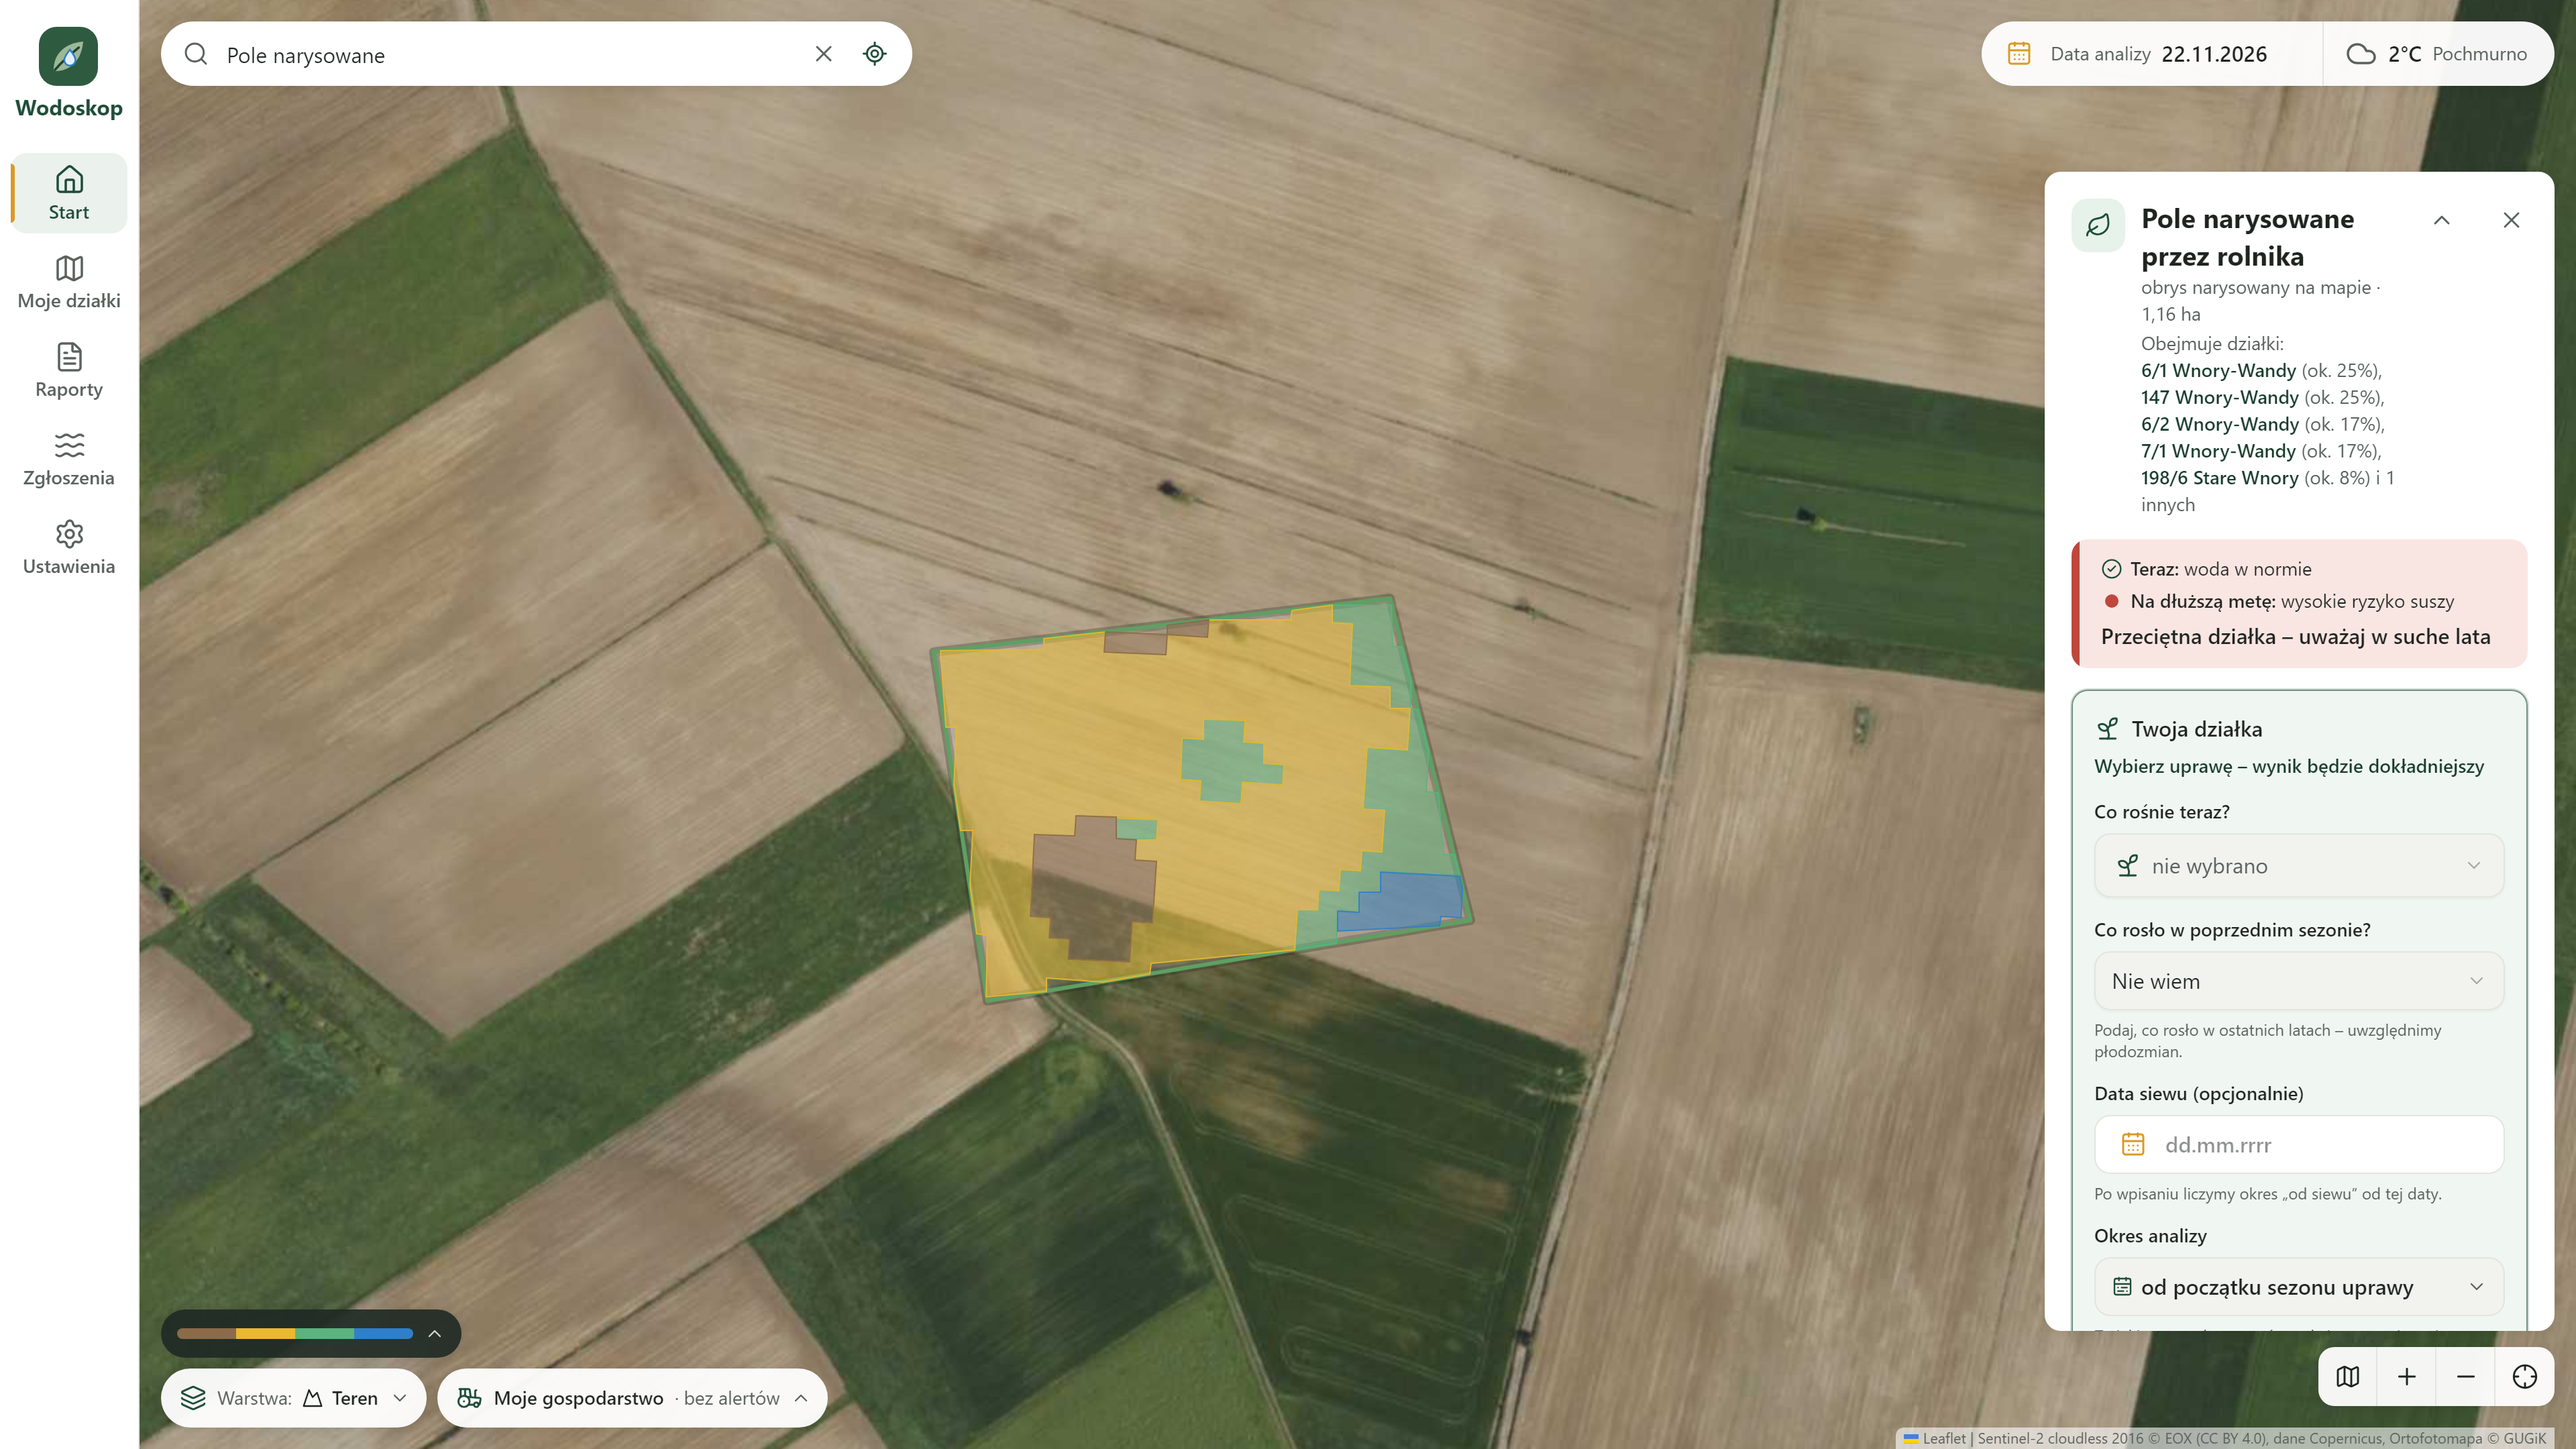
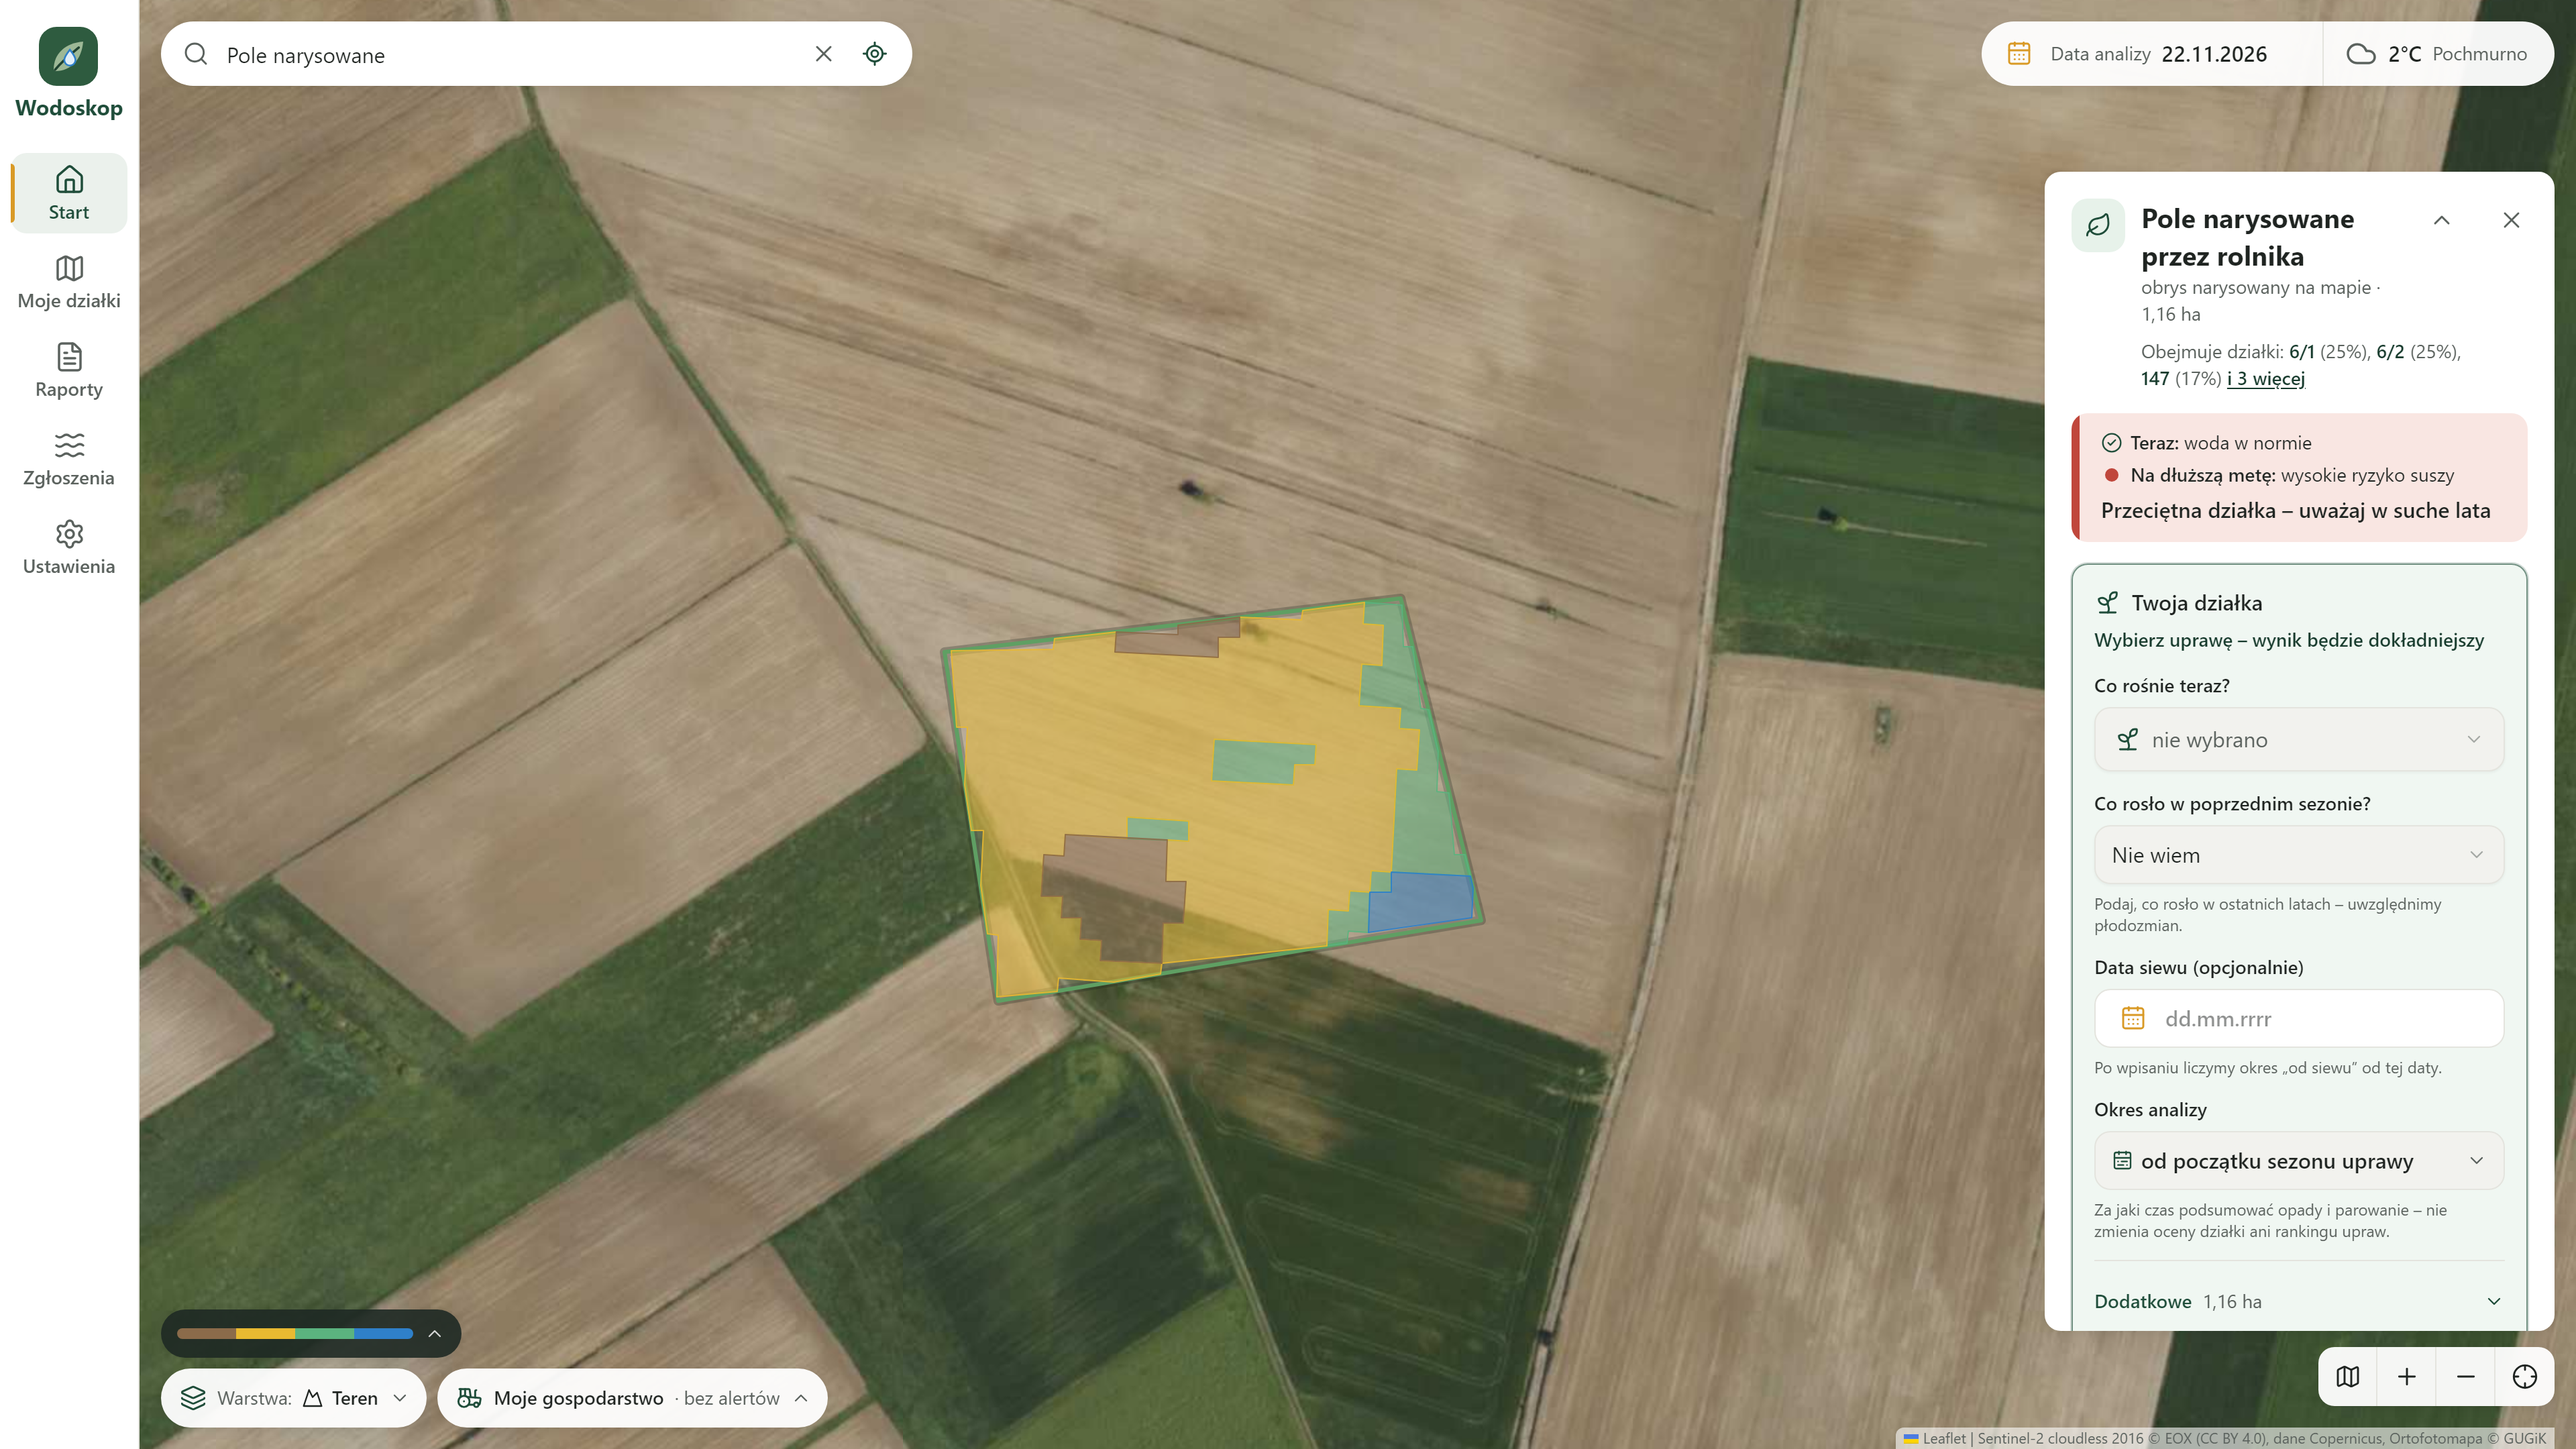
„Obejmuje działki” w panelu na komputerze: 3 pozycje po przecinku (numer i udział) + „i N więcej” rozwijane kliknięciem, pod nagłówkiem na całą szerokość panelu; ponowiony zrzut 11

diff --git a/frontend/src/features/parcel-panel/DrawnParcels.tsx b/frontend/src/features/parcel-panel/DrawnParcels.tsx
@@ -13,8 +13,21 @@ const MAX_SHOWN = 5
  * pod obrysem (POST /api/parcels-in-area, próbkowanie punktami). Zapytanie w tle – nie blokuje analizy ani warstw.
  * Pozycja to link do tej działki (otwiera ją jak wynik wyszukiwarki). Błąd / nota z serwera – szary tekst.
  */
-export function DrawnParcels({ parcel, className }: { parcel: Parcel; className?: string }) {
+export function DrawnParcels({
+  parcel,
+  className,
+  max = MAX_SHOWN,
+  compact,
+}: {
+  parcel: Parcel
+  className?: string
+  /** ile pozycji pokazać od razu; reszta pod „i N więcej” (rozwijane kliknięciem) */
+  max?: number
+  /** wąski panel: krótsze pozycje (sam numer, obręb raz w nagłówku, gdy wspólny) */
+  compact?: boolean
+}) {
   const { t } = useLang()
+  const [open, setOpen] = useState(false)
   const [res, setRes] = useState<{ id: string; data: ParcelsInArea } | null>(() => {
     const c = cache.get(parcel.id)
     return c ? { id: parcel.id, data: c } : null
@@ -44,21 +57,33 @@ export function DrawnParcels({ parcel, className }: { parcel: Parcel; className?
   if (!data) return <p className={className}>{t('sprawdzam działki ewidencyjne…')}</p>
   if (data.note) return <p className={className}>{t(data.note)}</p>
   if (!data.parcels.length) return null
-  const shown = data.parcels.slice(0, MAX_SHOWN)
+  const shown = open ? data.parcels : data.parcels.slice(0, max)
   const rest = data.parcels.length - shown.length
+  // wąski panel (`compact`): sam numer i udział – „6/1 (25%), 6/2 (25%), 147 (17%) i 3 więcej”; obręb w podpowiedzi,
+  // a gdy wszystkie działki są z jednego obrębu – raz w nagłówku
+  const oneRegion = compact && data.parcels.every((p) => p.obreb === data.parcels[0].obreb)
   return (
     <p className={className}>
-      {t('Obejmuje działki:')}{' '}
+      {oneRegion ? t('Obejmuje działki ({obreb}):', { obreb: data.parcels[0].obreb }) : t('Obejmuje działki:')}{' '}
       {shown.map((p, i) => (
         <span key={p.id}>
           {i > 0 && ', '}
-          <a href={startLink({ dzialka: p.id })} className="font-medium whitespace-nowrap text-brand-dark underline-offset-2 hover:underline">
-            {p.numer} {p.obreb}
-          </a>{' '}
-          <span className="whitespace-nowrap">({t('ok. {n}%', { n: p.share })})</span>
+          <span className="whitespace-nowrap">
+            <a href={startLink({ dzialka: p.id })} title={`${p.numer} ${p.obreb}`} className="font-medium text-brand-dark underline-offset-2 hover:underline">
+              {compact ? p.numer : `${p.numer} ${p.obreb}`}
+            </a>{' '}
+            ({compact ? `${p.share}%` : t('ok. {n}%', { n: p.share })})
+          </span>
         </span>
       ))}
-      {rest > 0 && ` ${t('i {n} innych', { n: rest })}`}
+      {(rest > 0 || open) && data.parcels.length > max && (
+        <>
+          {' '}
+          <button type="button" aria-expanded={open} onClick={() => setOpen((o) => !o)} className="font-medium whitespace-nowrap text-brand-dark underline underline-offset-2">
+            {open ? t('pokaż mniej') : t('i {n} więcej', { n: rest })}
+          </button>
+        </>
+      )}
     </p>
   )
 }

diff --git a/frontend/src/features/parcel-panel/ParcelSummary.tsx b/frontend/src/features/parcel-panel/ParcelSummary.tsx
@@ -59,8 +59,6 @@ export function ParcelSummary({
         <div className="min-w-0 flex-1">
           <h2 className="font-name line-clamp-2 text-xl leading-7 font-bold">{title}</h2>
           <p className="text-sm leading-5 text-text-muted">{sub}</p>
-          {/* F34: działki ewidencyjne pod polem narysowanym (F30) – ten nagłówek jest używany na komputerze */}
-          <DrawnParcels parcel={parcel} className="mt-0.5 text-sm leading-5 text-text-muted" />
         </div>
         {onCollapse && (
           <button
@@ -84,6 +82,9 @@ export function ParcelSummary({
           </button>
         )}
       </div>
+      {/* działki ewidencyjne pod polem narysowanym (F30) – pod nagłówkiem, na całą szerokość panelu: 3 pozycje po
+          przecinku + „i N więcej” (rozwijane kliknięciem) */}
+      <DrawnParcels parcel={parcel} max={3} compact className="-mt-2 pl-[52px] text-sm leading-5 text-text-muted" />
 
       {(parcel.source === 'approximate' || analysis?.approximate_area) && <ApproxAreaBanner />}
 

diff --git a/frontend/src/lib/i18n.en.ts b/frontend/src/lib/i18n.en.ts
@@ -1360,4 +1360,8 @@ export const EN: Record<string, string> = {
   'plon w regionie, t/ha': 'regional yield, t/ha',
   // F34: data siewu jak data analizy
   '{pole} – wybierz z kalendarza': '{pole} – pick from the calendar',
+  // Obejmuje działki – 3 pozycje i rozwijanie
+  'Obejmuje działki ({obreb}):': 'Covers parcels ({obreb}):',
+  'i {n} więcej': 'and {n} more',
+  'pokaż mniej': 'show less',
 }
